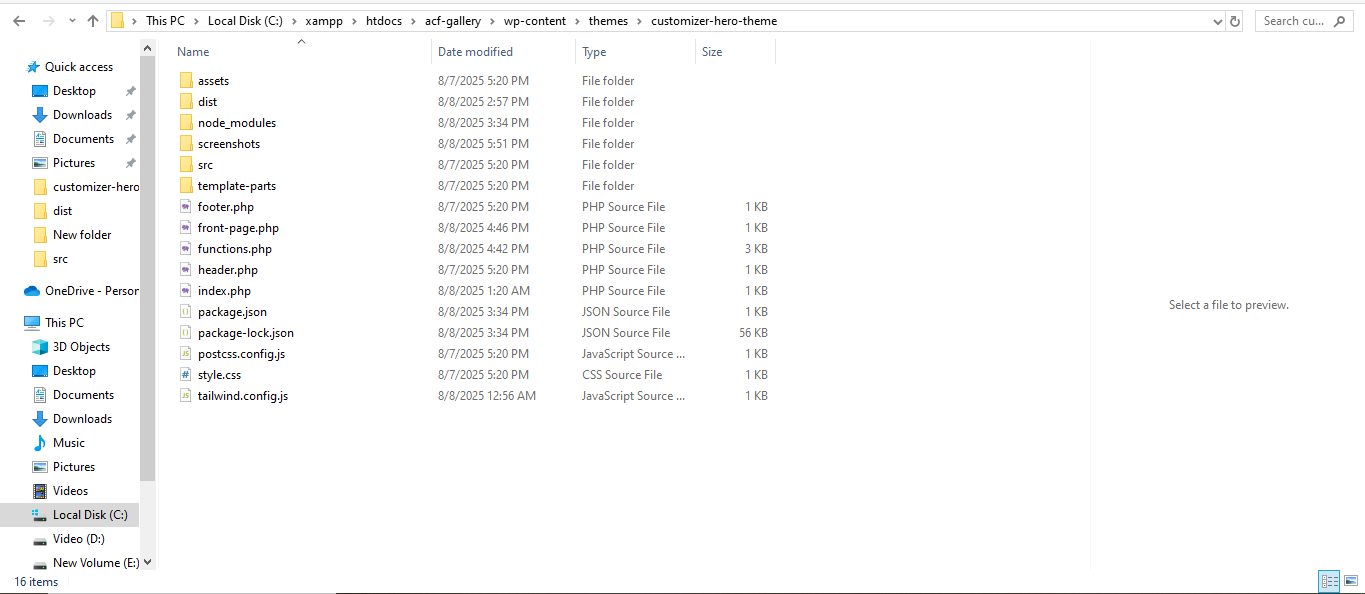
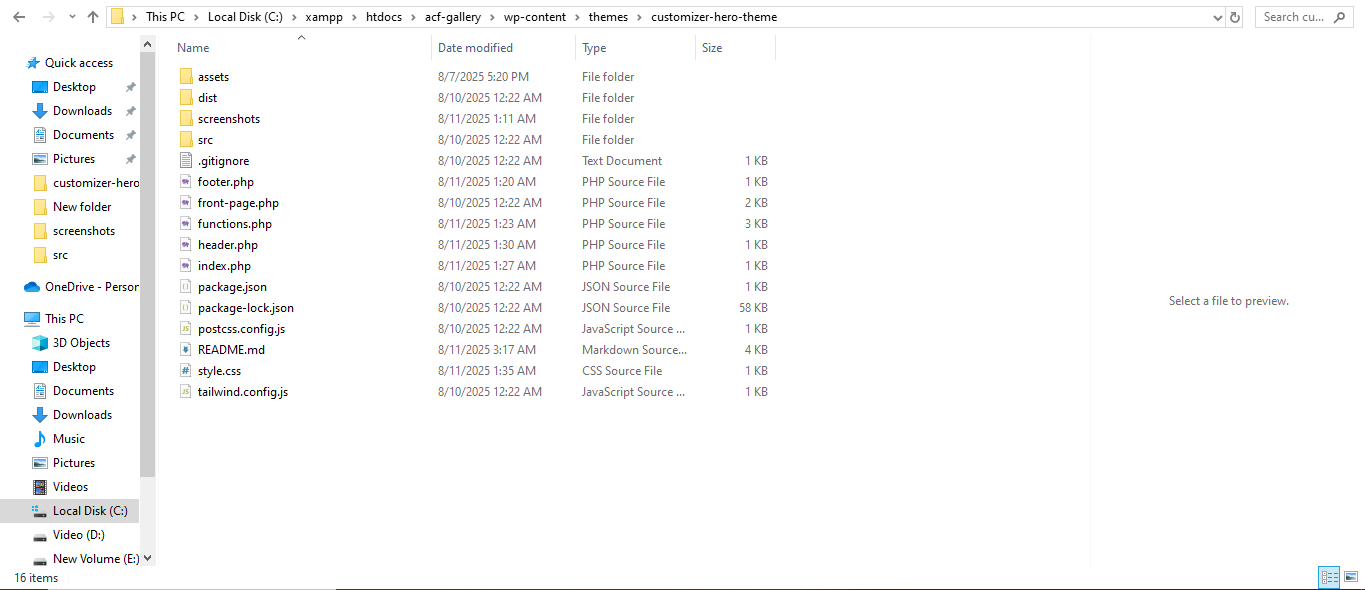
Update selected theme files

diff --git a/README.md b/README.md
@@ -20,27 +20,22 @@ A modern WordPress theme built with **Tailwind CSS** featuring a dynamic Hero Se
 ## Folder Structure
 
 customizer-hero-theme/
-├── assets/ # Static assets (images, fonts) – currently empty
-├── dist/ # Compiled Tailwind CSS output
-│ └── style.css
-├── node_modules/ # NPM dependencies
-├── screenshots/ # Project screenshots
-│ ├── customizer-hero-settings.png
-│ ├── frontend-hero-section.png
-│ ├── npm-build-output.png
-│ └── theme-folder-structure.png
-├── src/ # Tailwind CSS input files
-│ └── input.css
-├── footer.php # Theme footer
-├── front-page.php # Front page template
-├── functions.php # Theme functions and Customizer API setup
-├── header.php # Theme header
-├── index.php # Main template file
-├── package.json # NPM scripts and dependencies
-├── package-lock.json # Locked NPM versions
-├── postcss.config.js # PostCSS config for Tailwind CSS
-├── style.css # Theme main stylesheet (optional)
-├── tailwind.config.js # Tailwind CSS configuration
+├── assets/
+├── dist/
+├── screenshots/
+├── src/
+├── .gitignore
+├── footer.php
+├── front-page.php
+├── functions.php
+├── header.php
+├── index.php
+├── package.json
+├── package-lock.json
+├── postcss.config.js
+├── README.md
+├── style.css
+└── tailwind.config.js
 
 ---
 
@@ -60,7 +55,8 @@ Build Tailwind CSS assets:
 npm run build
 Activate the theme via WordPress Dashboard (Appearance > Themes).
 
-Customizer Usage
+## Customizer Usage
+
 Go to Appearance > Customize > Hero Section
 
 Update the following fields:
@@ -77,7 +73,7 @@ Click Publish to save changes
 
 Changes will reflect immediately on the frontend
 
-Development
+## Development
 To watch for CSS changes in real-time, run:
 
 npm run dev
@@ -114,9 +110,9 @@ An overview of the theme's folder and file organization.
 ![Theme Folder Structure](screenshots/theme-folder-structure.png)
 
 
-Portfolio & Contact
+## Portfolio & Contact
 This project is related to my Upwork portfolio:
-Mahbub’s Upwork Profile (Update the link with your actual profile)
+Mahbub’s Upwork Profile ([Update the link with your actual profile](https://www.upwork.com/freelancers/~015df70a23d7f58180?p=1386019951720890368))
 
 For any questions or support, feel free to contact me.
 
